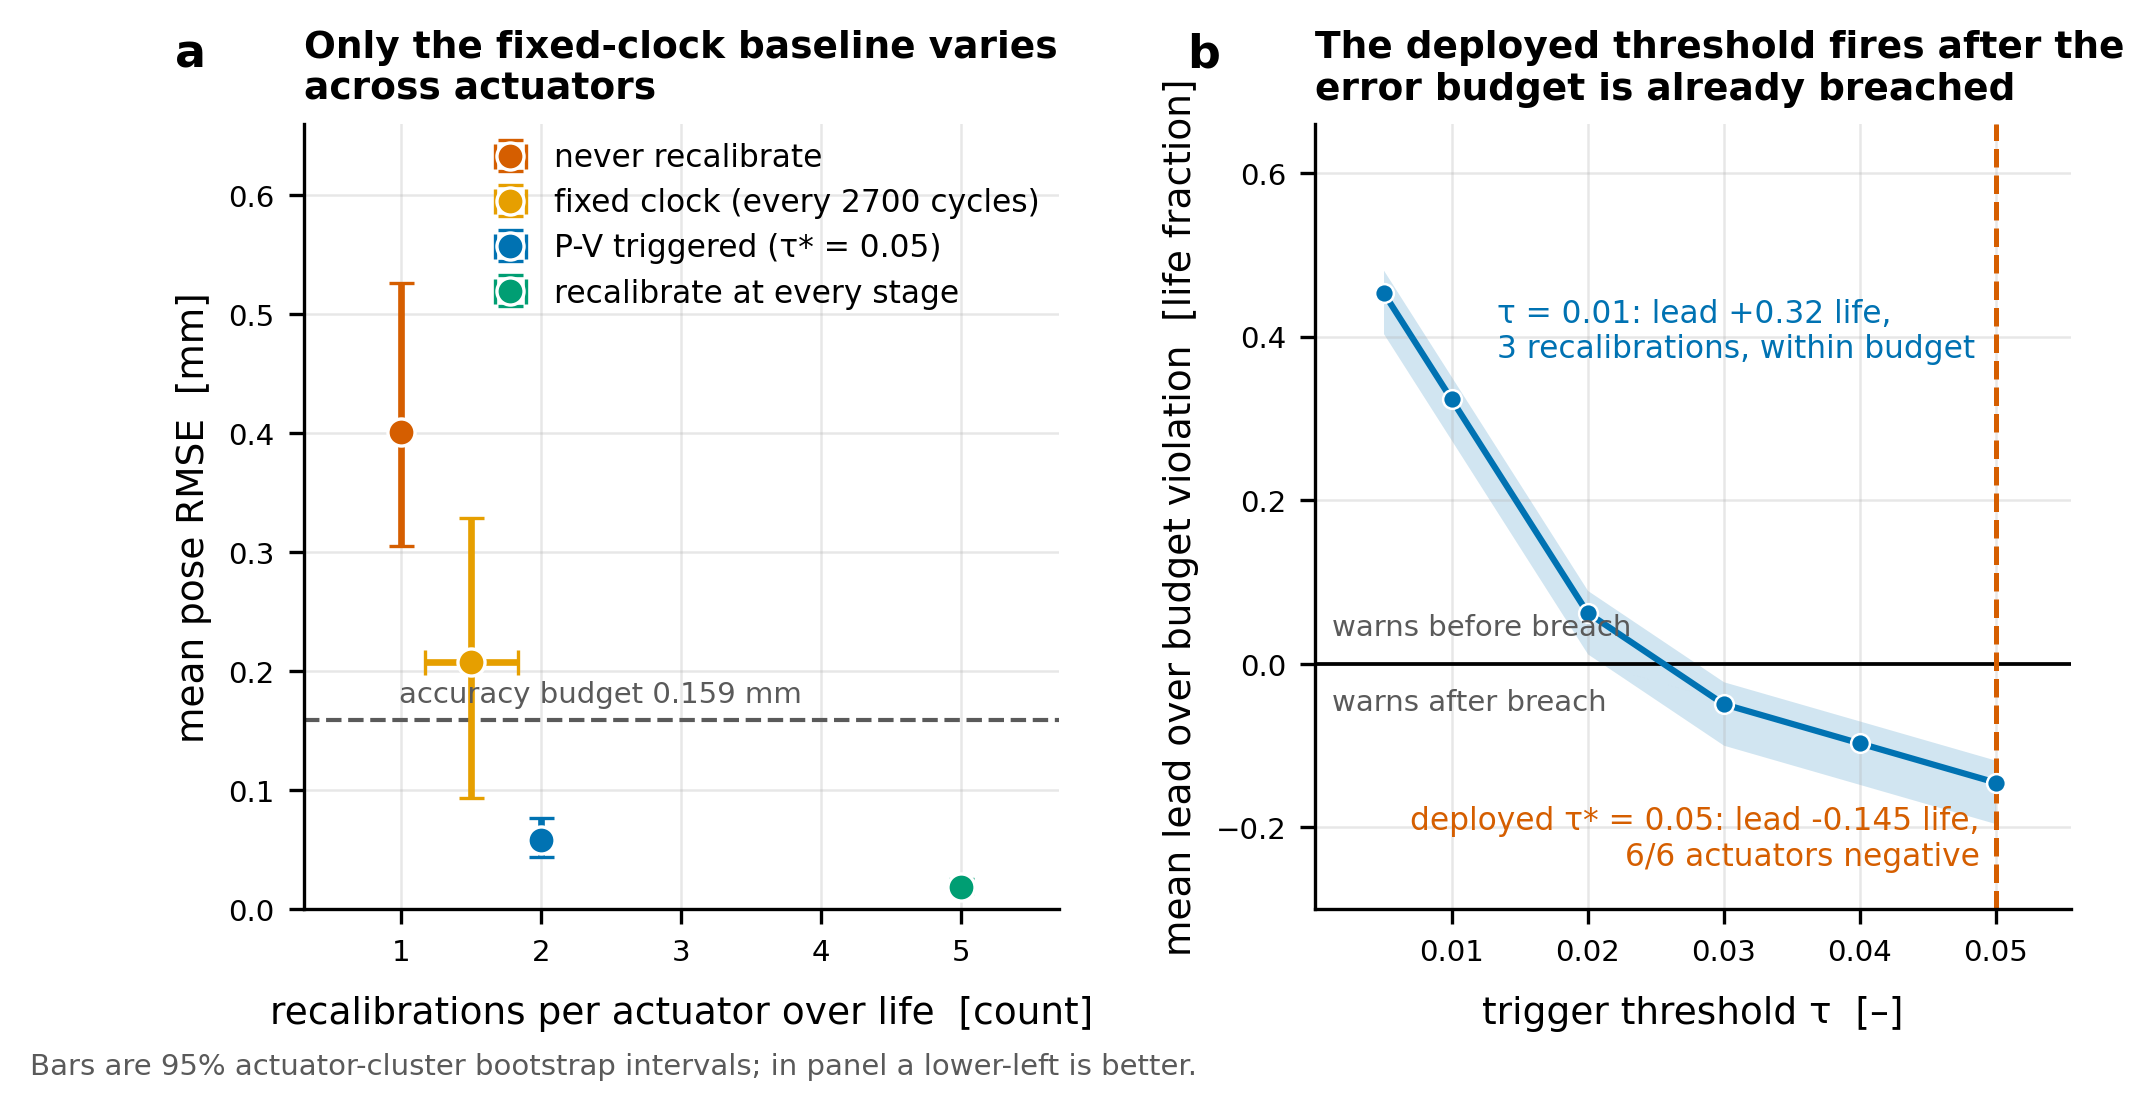
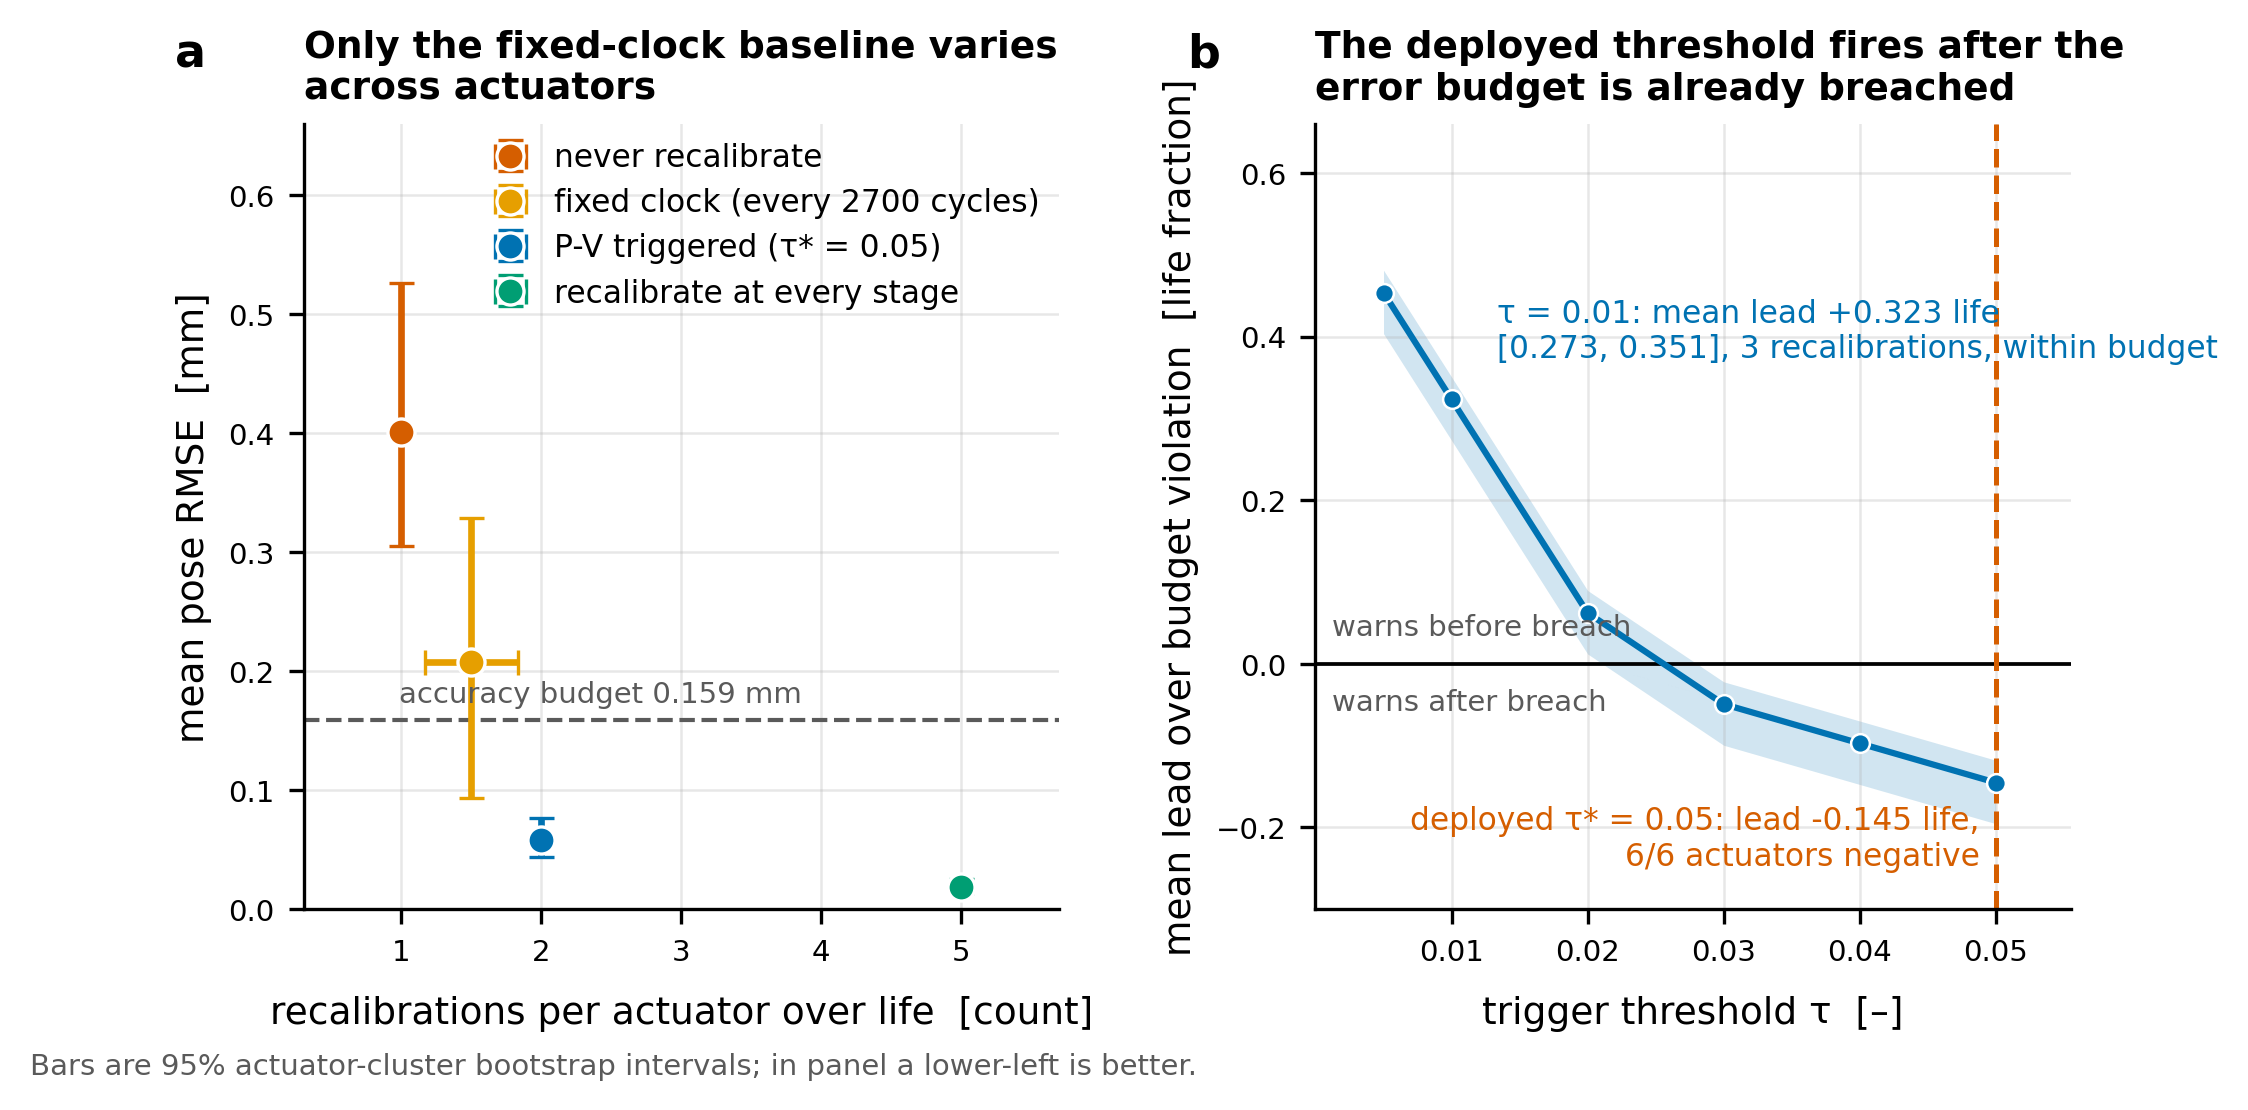
docs: name the statistic in the Fig 4b lead-time caption
The caption quoted '+0.32 normalized life' for the tau=0.01 frontier point while
section 4.4 quotes '+0.346' for the same configuration. Both are correct but they
are different statistics: Fig 4b plots actuator means (mean lead 0.3232), while
4.4 reports the median (0.3456). The gap is actuator 17 at +0.199.

The caption now names the statistic, carries the cluster interval [0.273, 0.351],
and states the median alongside it; the in-figure annotation says 'mean lead' and
shows three decimals plus the interval. check_manuscript_numbers.py now gates the
mean, its interval and the median against their source files, so the two passages
cannot drift apart again.

diff --git a/scripts/check_manuscript_numbers.py b/scripts/check_manuscript_numbers.py
@@ -148,6 +148,14 @@ def main():
     require(ab, f"({policies['triggered']['recal_per_actuator']:.0f} vs "
                 f"{policies['always']['recal_per_actuator']:.0f} per actuator)")
 
+    # Figure 4b plots actuator MEANS while section 4.4 quotes medians. Gate both against
+    # their sources so the two passages cannot drift into looking like one contradictory claim.
+    fr01 = next(p for p in load_json(STUDY3_CLUSTER)["lead_frontier_with_cluster_ci"]
+                if abs(p["tau"] - 0.01) < 1e-12)
+    require(text, f"mean lead is +{fr01['mean_lead_life']:.3f} normalized life")
+    require(text, f"[{fr01['lead_ci_low']:.3f}, {fr01['lead_ci_high']:.3f}]")
+    require(text, f"median of +{f001['lead_life_median']:.3f}")
+
     # Cross-document gate: every doc that quotes the correlation interval must quote the
     # cluster interval, so a future edit cannot leave one of them behind.
     for doc in SECONDARY_DOCS:

diff --git a/scripts/run_study3_cluster_ci.py b/scripts/run_study3_cluster_ci.py
@@ -628,7 +628,8 @@ def _figures(results, per_act_xy, test_ids):
     axB.axvline(tau_star, color=pal[1], lw=1.2, ls="--")
     best = min(FR, key=lambda p: abs(p["tau"] - 0.01))
     axB.annotate(
-        f"\u03c4 = {best['tau']}: lead {best['mean_lead_life']:+.2f} life,\n"
+        f"\u03c4 = {best['tau']}: mean lead {best['mean_lead_life']:+.3f} life\n"
+        f"[{best['lead_ci_low']:.3f}, {best['lead_ci_high']:.3f}], "
         f"{best['recal_per_actuator']:.0f} recalibrations, within budget",
         (best["tau"], best["mean_lead_life"]), textcoords="offset points", xytext=(11, 10),
         fontsize=S_LAB - 0.5, color=pal[0], ha="left",

diff --git a/docs/preprint_v1.md b/docs/preprint_v1.md
@@ -316,7 +316,7 @@ unseen actuators, not the absolute accuracy.
 
 ![Recalibration trade-off and lead frontier with cluster intervals](../data/sim/phaseD/study3_fig4b_recal_cluster_ci.png)
 
-*Figure 4b. (a) The same four policies with 95% actuator-cluster bootstrap intervals on both axes. Only the fixed-clock baseline has non-zero between-actuator spread in recalibration count; the triggered and always-on counts are identical on every held-out actuator, which is why the 60% saving carries no interval (§4.5). (b) Lead-time frontier with cluster intervals: the deployed τ\* = 0.05 sits below zero lead for 6/6 actuators, while τ = 0.01 gives +0.32 normalized life of lead at 3 recalibrations and remains within the accuracy budget.*
+*Figure 4b. (a) The same four policies with 95% actuator-cluster bootstrap intervals on both axes. Only the fixed-clock baseline has non-zero between-actuator spread in recalibration count; the triggered and always-on counts are identical on every held-out actuator, which is why the 60% saving carries no interval (§4.5). (b) Lead-time frontier with cluster intervals. Both axes are actuator **means**, so the lead plotted here is the mean over held-out actuators, not the median quoted in §4.4: at τ = 0.01 the mean lead is +0.323 normalized life (95% cluster CI [0.273, 0.351]) against a median of +0.346, the difference coming from actuator 17 at +0.199. The deployed τ\* = 0.05 sits below zero lead for 6/6 actuators; τ = 0.01 keeps 3 recalibrations per actuator and stays within the accuracy budget at 0.029 mm.*
 
 ## 5. Discussion and limitations
 
